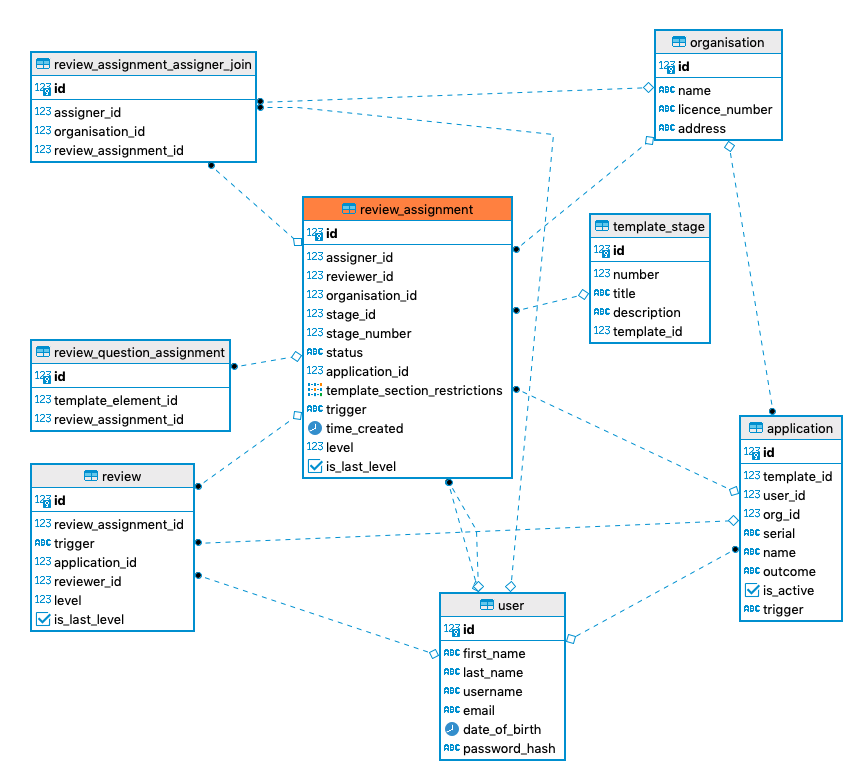
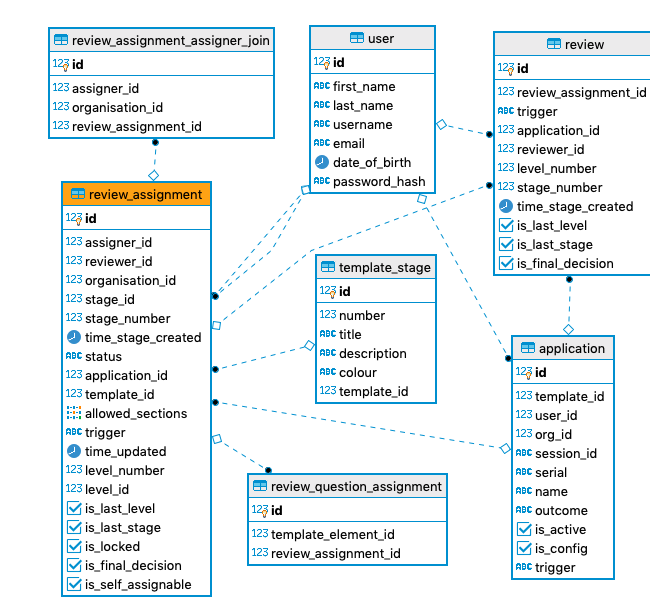
Update documentation related to Re-assignment the existing assignment statuses and explained better fields is_locked, is_self_assignable and is_final_decision

diff --git a/docs/internal/Assignment-Process.md b/docs/internal/Assignment-Process.md
@@ -13,7 +13,8 @@ First of all, some bulletpoint (and rules) to help clarify the diagram
 ### Assignment rules
 
 - One `review_assignment` should exist per reviewer/application/stage/level
-- Review assignment should only be editable by a reviewer if it's `Available for self-assignment`, otherwise by linked `Assigner`. Review assignment should not be editable once stage of review assignment is different to the current application stage.
+- Review assignment should only be assignable by a reviewer if has `is_self_assignable` = **True**, otherwise by linked `Assigner`.
+- Review assignment should not be editable once stage of review assignment is different to the current application stage.
 - `is_last_level` field is a helper field for front end (to avoid front ending needing to figure if if review is last level for given stage)
 
 ### Assignment status
@@ -21,10 +22,19 @@ First of all, some bulletpoint (and rules) to help clarify the diagram
 Review assignment can have the following statuses
 
 - `Available` -> Can be assigned by assigner
-- `Self-assigned by another` -> Was available for self assignment (but self assigned by someone else)
 - `Assigned` -> indicates that the reviewer is able to create a review (or one already exists)
   - At least one `review_question_assignment` was linked to review_assignment
-- `Available for self-assignment` -> Can be self assigned
+
+To also determine if this assignment can be Self-assigned 3 other fields come in the scene:
+
+- `is_self_assignable` -> Can be self assigned (if not locked - how we prevent other self-assigners after one is already assigned)
+- `is_locked` -> Can be used to either prevent self-assignment or to generate a Review with status = LOCKED when assignment status is ASSIGNED\*
+
+Another possibility for assignment is using the flag:
+
+- `is_final_decision` -> Used to assign reviewers with specific permissions that gets Assignment.status = ASSIGNED automatically.
+
+\* This is specifically used for assignement of partial reviews, for example 2 reviewers have been assigned to Sections of the same application. After one submits back to the Applicant the other one needs to be blocked, this would be flagged in the Review.status = LOCKED. But if there is only Assignment and no review started, we set the Assignment is_locked = true to generate a Review.status LOCKED when started.
 
 ### Restrictions
 
@@ -35,12 +45,14 @@ Review assignments can be restricted by section/s
 
 ### Assigner settings
 
-- Review assignments of status `Available` or `Assigned` can be assigned by an assigner
+- Review assignments of status **Available** can be assigned by assigners
+- Review assignments of status **Assigned** with `Review.status` != **Submitted** can be unassigned or re-assigned by assigners
 - Assigner is linked through the `review_assignment_assigner_join` table
 
 #### Difference between self-assignment and assignment
 
 The idea behind self assignment originated with requirement for users (who are not themselves assigners) to be able to 'choose' or pick which application they will be reviewing.
+When the assignment `is_self_assignment` or `is_final_decision` all sections will be assigned to the same user.
 
 **Note**: Currently self assignment is not restricted by `template_section_restrictions`.
 
@@ -67,35 +79,66 @@ To **assign** or **self-assignment** the Reviewer of sections of one application
 
 #### Self-assignment
 
-A GraphQL mutation is created the front-end when the user clicks on the **Self-assign** for one section.
+A GraphQL mutation `updateReviewAssignment` runs in the front-end when the user clicks on the **Self-assign** for each section (self-assignment will propagate for all sections).
 What happens as a result of this mutation is:
 
 1. `review_assignment.trigger` is set to ON_REVIEW_SELF_ASSIGN.
 2. Changes `review_assignment.status` to **Assigned**.
-3. Sets assigner of review assignment to current user
+3. Sets assignerId of current user in the new assignment.
 4. Adds `review_question_assignment` (for each question of ALL sections) to `review_assignment`
 5. Other updates done on the server-side:
 
-- Update other `review_assignment.status` from **Available for self-assignment** to **Self-assigned by another**
+- Update other `review_assignment` with `is_self_assignment` as **True** to have field `is_locked` to **True**. So other self-assignments for same application get locked.
 
-#### Normal assigning
+#### Assigning (by assigner)
 
-A GraphQL mutation is created on the front-end when the user selects a reviewer in drop down for a section.
+A GraphQL mutation `updateReviewAssignment` is created on the front-end when the user selects a reviewer in drop down for each section (or all sections when rules apply).
 
 1. `review_assignment.trigger` is set to ON_REVIEW_ASSIGN.
 2. Changes status of `review_assignment` to **Assigned**.
-3. Sets assigner of current review to current user
-4. Adds `review_question_assignment` (for each question on the section assigned) to `review_assignment`
+3. Sets assignerId of current user in the new assignment.
+4. Adds `review_question_assignment` (for each question on the section assigned) to `review_assignment`.
+5. Other updates done on the server-side:
+   - If an existing `review` was connected to this assignment will change the `review.status` from **Discontinued** to **Draft**.
+   - Update other `review_assignment` with `is_self_assignment` as **True** to have field `is_locked` to **True**. So other self-assignments for same application get locked.
+
+#### Re-Assignment
+
+A GraphQL mutation `reassignReviewAssignment` runs on the front-end when one assigner:
+
+- selects **re-assign** in the drop down
+- selects the new reviewer in drop down for a section (or all sections).
+
+1. `review_assignment.trigger` for previous assignment is set to ON_REVIEW_UNASSIGN.
+2. `review_assignment.trigger` for new assignment is set to ON_REVIEW_REASSIGN.
+3. Changes status of previous `review_assignment` to **Available** and flag `is_locked` to **True**.
+4. Changes status of new `review_assignment` to **Assigned**.
+5. Sets assignerId of current user in the new assignment.
+6. Adds `review_question_assignment` (for each question on the section assigned) to `review_assignment`.
+7. Other updates done on the server-side:
+   - If an existing `review` was connected to previous assignment will change the `review.status` from **Draft** to **Discontinued**.
+   - If an existing `review` was connected to new assignment will change the `review.status` from **Discontinued** to **Draft**.
+
+**Note**: No need to change other assignment flag `is_locked` since it has been assigned to reviewers already.
+
+#### Unassignment
+
+A GraphQL mutation `unassignReviewAssignment` runs on the front-end when one assigner:
+
+- selects **un-assign**
+- confirms unassignment of reviewer for each section (or all sections when rules apply).
+
+1. `review_assignment.trigger` is set to ON_REVIEW_UNASSIGN.
+2. Changes status of `review_assignment` to **Available** and flag `is_locked` to **False**.
+3. Other updates done on the server-side:
+   - If an existing `review` was connected to this assignment will change the `review.status` from **Draft** to **Discontinued**.
+   - Update other `review_assignment` with `is_self_assignment` as **True** to have field `is_locked` to **False**. So other self-assignments for same application are unlocked.
 
 ## Diagram
 
 This diagram is somewhat complex — it describes some functionality that is not implemented (re-assignment), but it can be helpful when visualising full assignment flow (and for analysing different scenarios of assignment)
 
 ![Assignment Flow](images/Assignment-Flow-Detailed.png)
-
-## Re-Assignment
-
-todo
 
 # Front End Implementation
 
